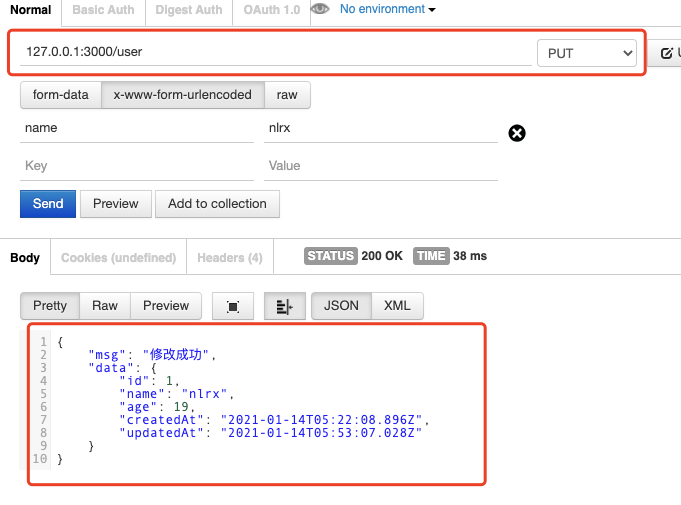
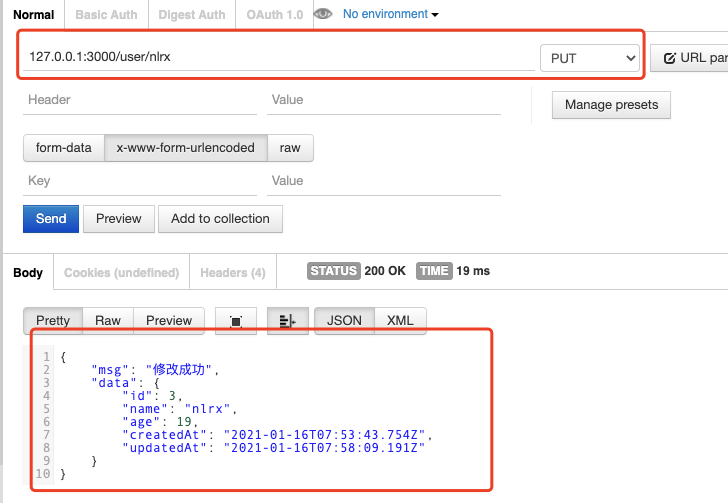
fix(koa2): 路由

Changed region(s): [[0.0, 0.0, 1.0, 1.0]]

diff --git a/docs/koa2/05.数据库.md b/docs/koa2/05.数据库.md
@@ -257,33 +257,36 @@ sequelize
   我们通过对路由 `/user` 发送 `PUT` 请求，并携带需要修改的用户的用户名作为参数，如下：
 
   ```typescript
-  router.put("/user", async (ctx: Koa.Context, next: () => Promise<any>) => {
-    const { name } = ctx.request.body;
-    let res: { msg: string; data: any } = {
-      msg: "",
-      data: null,
-    };
+  router.put(
+    "/user/:name",
+    async (ctx: Koa.Context, next: () => Promise<any>) => {
+      const { name } = ctx.params;
+      let res: { msg: string; data: any } = {
+        msg: "",
+        data: null,
+      };
 
-    const user = await UserModel.findOne({
-      where: { name },
-    });
-    if (user) {
-      await user.update({
-        age: 19, //修改的字段对应的内容
+      const user = await UserModel.findOne({
+        where: { name },
       });
-      res.msg = "修改成功";
-      res.data = user;
-    } else {
-      res.msg = "您要修改的用户不存在";
-      res.data = null;
-    }
+      if (user) {
+        await user.update({
+          age: 19, //修改的字段对应的内容
+        });
+        res.msg = "修改成功";
+        res.data = user;
+      } else {
+        res.msg = "您要修改的用户不存在";
+        res.data = null;
+      }
 
-    ctx.body = res;
-  });
+      ctx.body = res;
+    }
+  );
   ```
 
   ![](~@/koa2/05/04.png)
-  
+
   ![](~@/koa2/05/05.png)
 
   在上述代码中，我们将用户名为 `nlrx` 的用户的 `age` 字段改成了 `19`，执行数据修改操作之前我们先查找该用户是否存在，如果存在，再执行修改操作；如果不存在，则提示「要修改的用户不存在」。修改成功之后返回了该用户被修改后的信息，我们发现该用户的 `age` 字段确实被改成了 `19`。
@@ -293,26 +296,29 @@ sequelize
   我们通过对路由 `/user` 发送 `DELETE` 请求，并携带需要删除的用户的用户名作为参数，如下：
 
   ```typescript
-  router.del("/user", async (ctx: Koa.Context, next: () => Promise<any>) => {
-    const { name } = ctx.request.body;
-    let res: { msg: string; data: any } = {
-      msg: "",
-      data: null,
-    };
-    const user = await UserModel.findOne({
-      where: { name },
-    });
-    if (user) {
-      await user.destroy();
-      res.msg = "删除成功";
-      res.data = user;
-    } else {
-      res.msg = "您要删除的用户不存在";
-      res.data = null;
-    }
+  router.del(
+    "/user/:name",
+    async (ctx: Koa.Context, next: () => Promise<any>) => {
+      const { name } = ctx.params;
+      let res: { msg: string; data: any } = {
+        msg: "",
+        data: null,
+      };
+      const user = await UserModel.findOne({
+        where: { name },
+      });
+      if (user) {
+        await user.destroy();
+        res.msg = "删除成功";
+        res.data = user;
+      } else {
+        res.msg = "您要删除的用户不存在";
+        res.data = null;
+      }
 
-    ctx.body = res;
-  });
+      ctx.body = res;
+    }
+  );
   ```
 
   ![](~@/koa2/05/06.png)

diff --git a/docs/koa2/03.路由.md b/docs/koa2/03.路由.md
@@ -123,16 +123,16 @@ const router = new Router();
 
 // 添加路由
 router
-  .get("/users", async (ctx: Koa.Context, next: () => Promise<any>) => {
+  .get("/user/:id", async (ctx: Koa.Context, next: () => Promise<any>) => {
     // 获取用户
   })
-  .post("/users", async (ctx: Koa.Context, next: () => Promise<any>) => {
+  .post("/user", async (ctx: Koa.Context, next: () => Promise<any>) => {
     // 增加新用户
   })
-  .put("/users/:id", async (ctx: Koa.Context, next: () => Promise<any>) => {
+  .put("/user/:id", async (ctx: Koa.Context, next: () => Promise<any>) => {
     // 修改参数 id 对应的用户
   })
-  .del("/users/:id", async (ctx: Koa.Context, next: () => Promise<any>) => {
+  .del("/user/:id", async (ctx: Koa.Context, next: () => Promise<any>) => {
     // 删除参数 id 对应的用户
   });
 

diff --git a/docs/koa2/07.接口鉴权.md b/docs/koa2/07.接口鉴权.md
@@ -120,9 +120,9 @@ const router = new Router();
 export default (app: Koa) => {
   router.post("/user", jwt, UserController.createUser);
 
-  router.put("/user", jwt, UserController.updateUser);
+  router.put("/user/:name", jwt, UserController.updateUser);
 
-  router.del("/user", jwt, UserController.deleteUser);
+  router.del("/user/:name", jwt, UserController.deleteUser);
 
   router.get("/user/:name", jwt, UserController.getUser);
 
